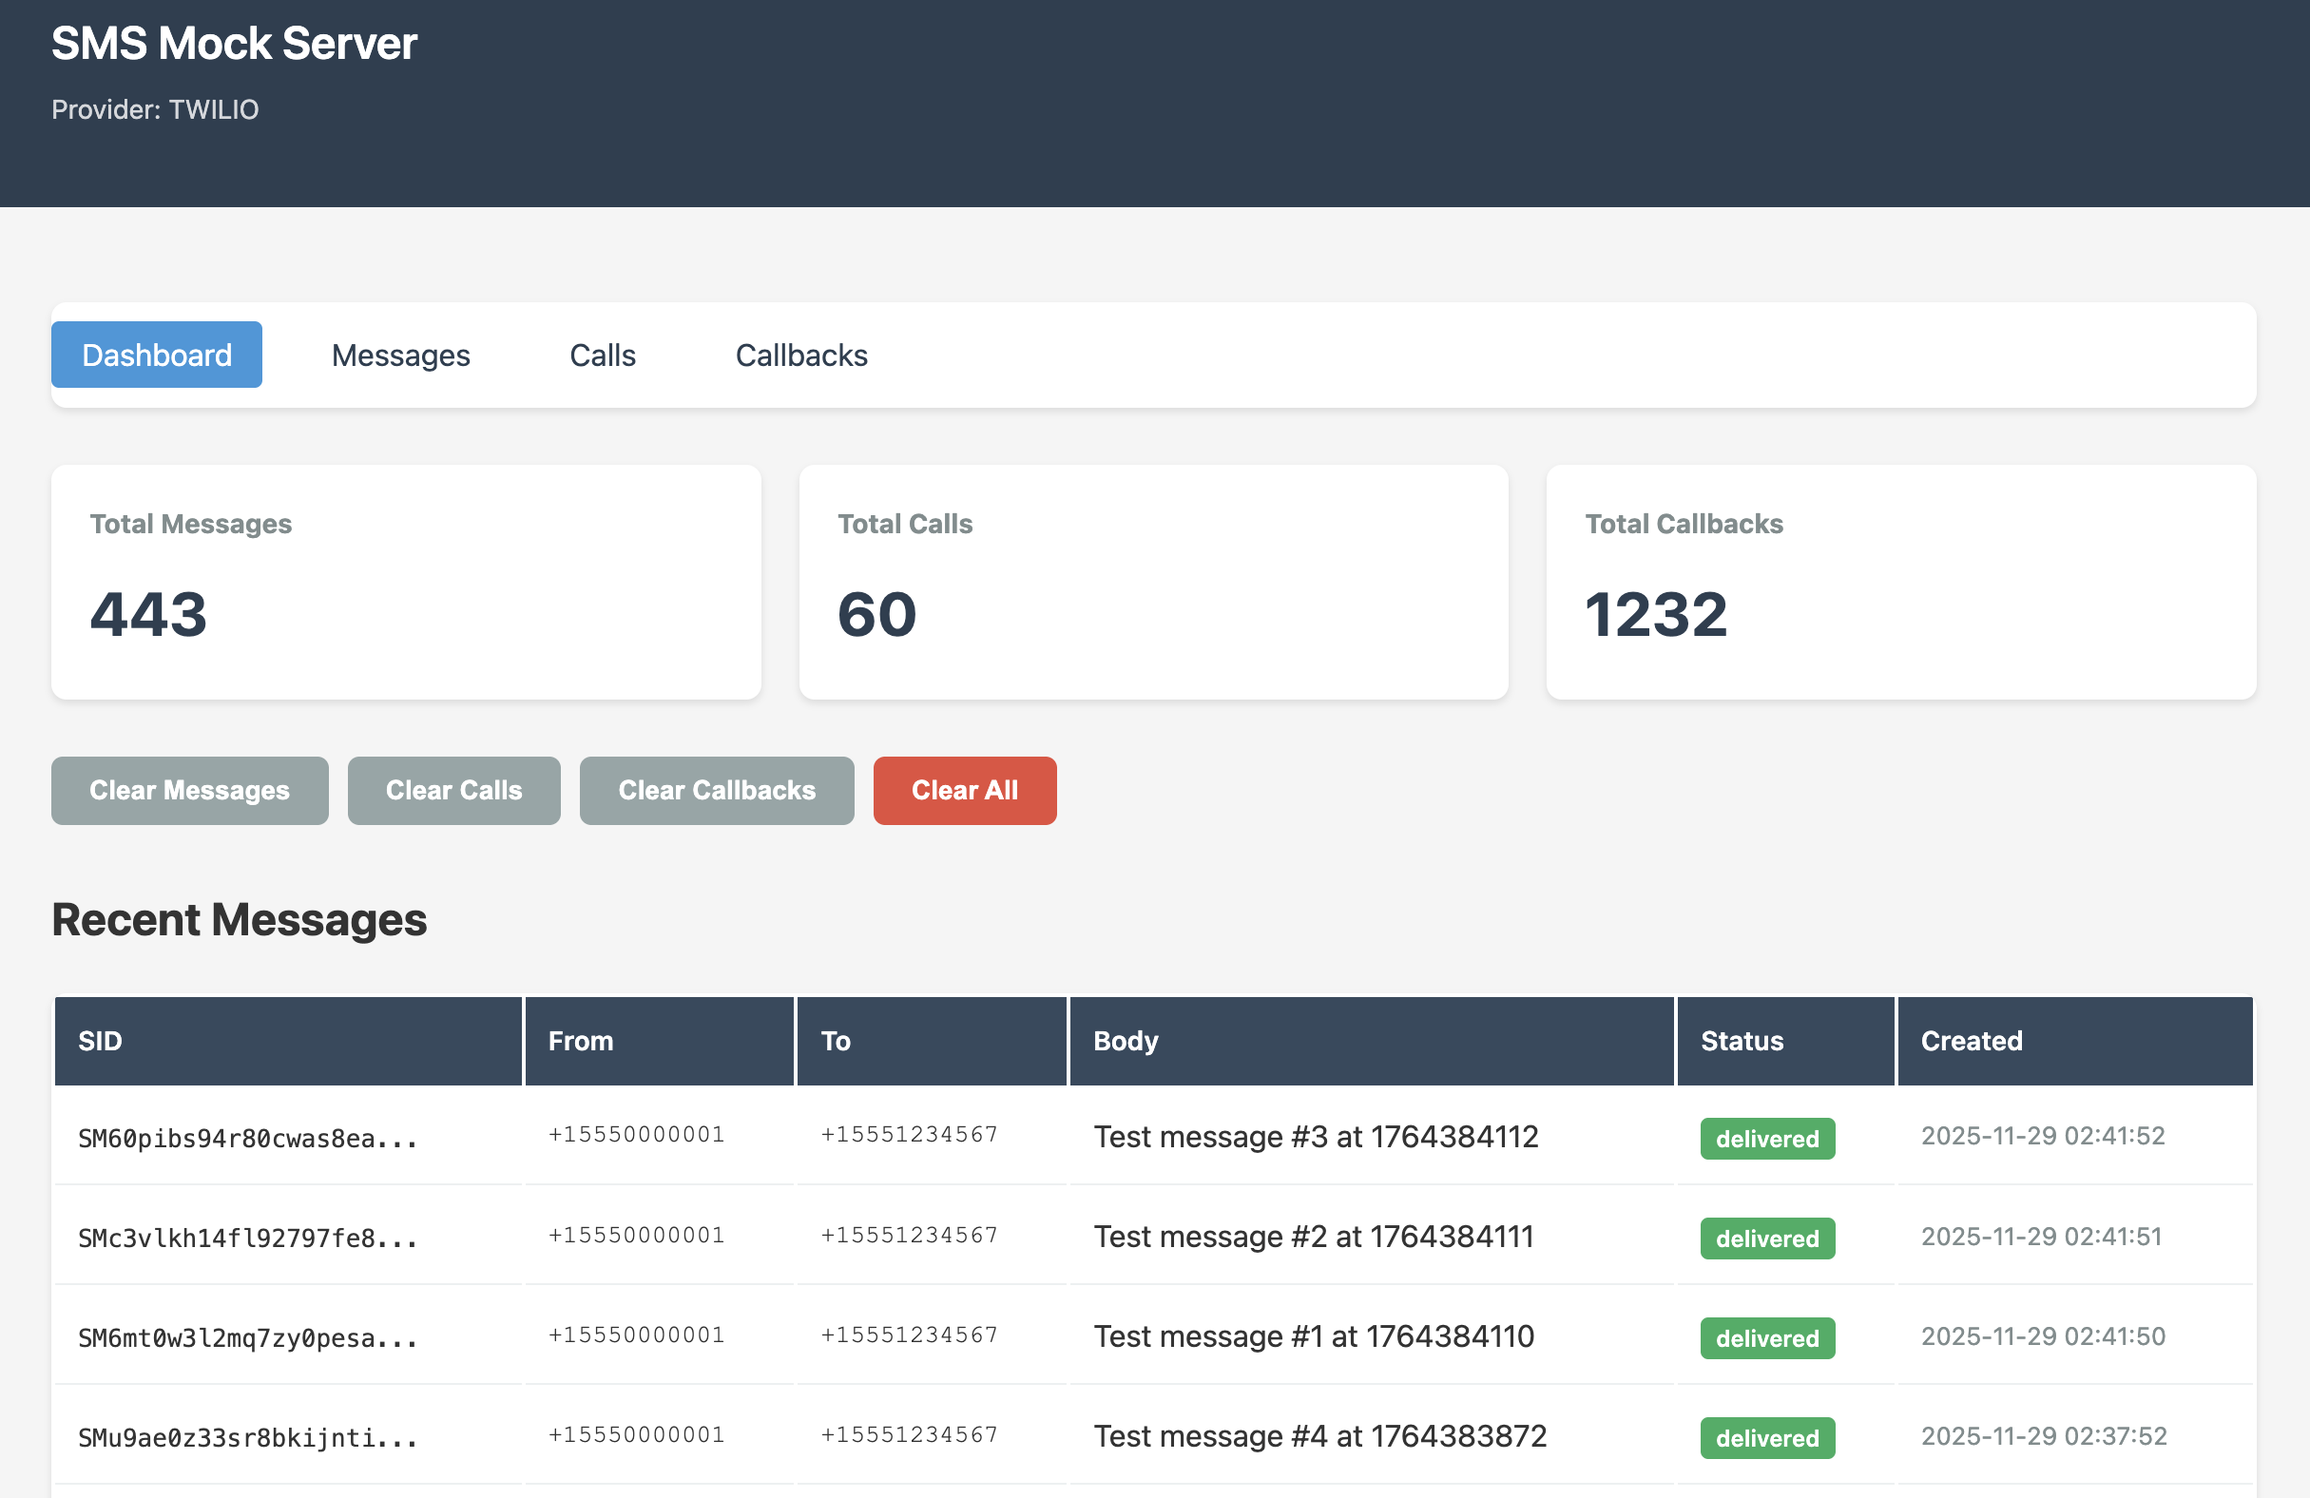
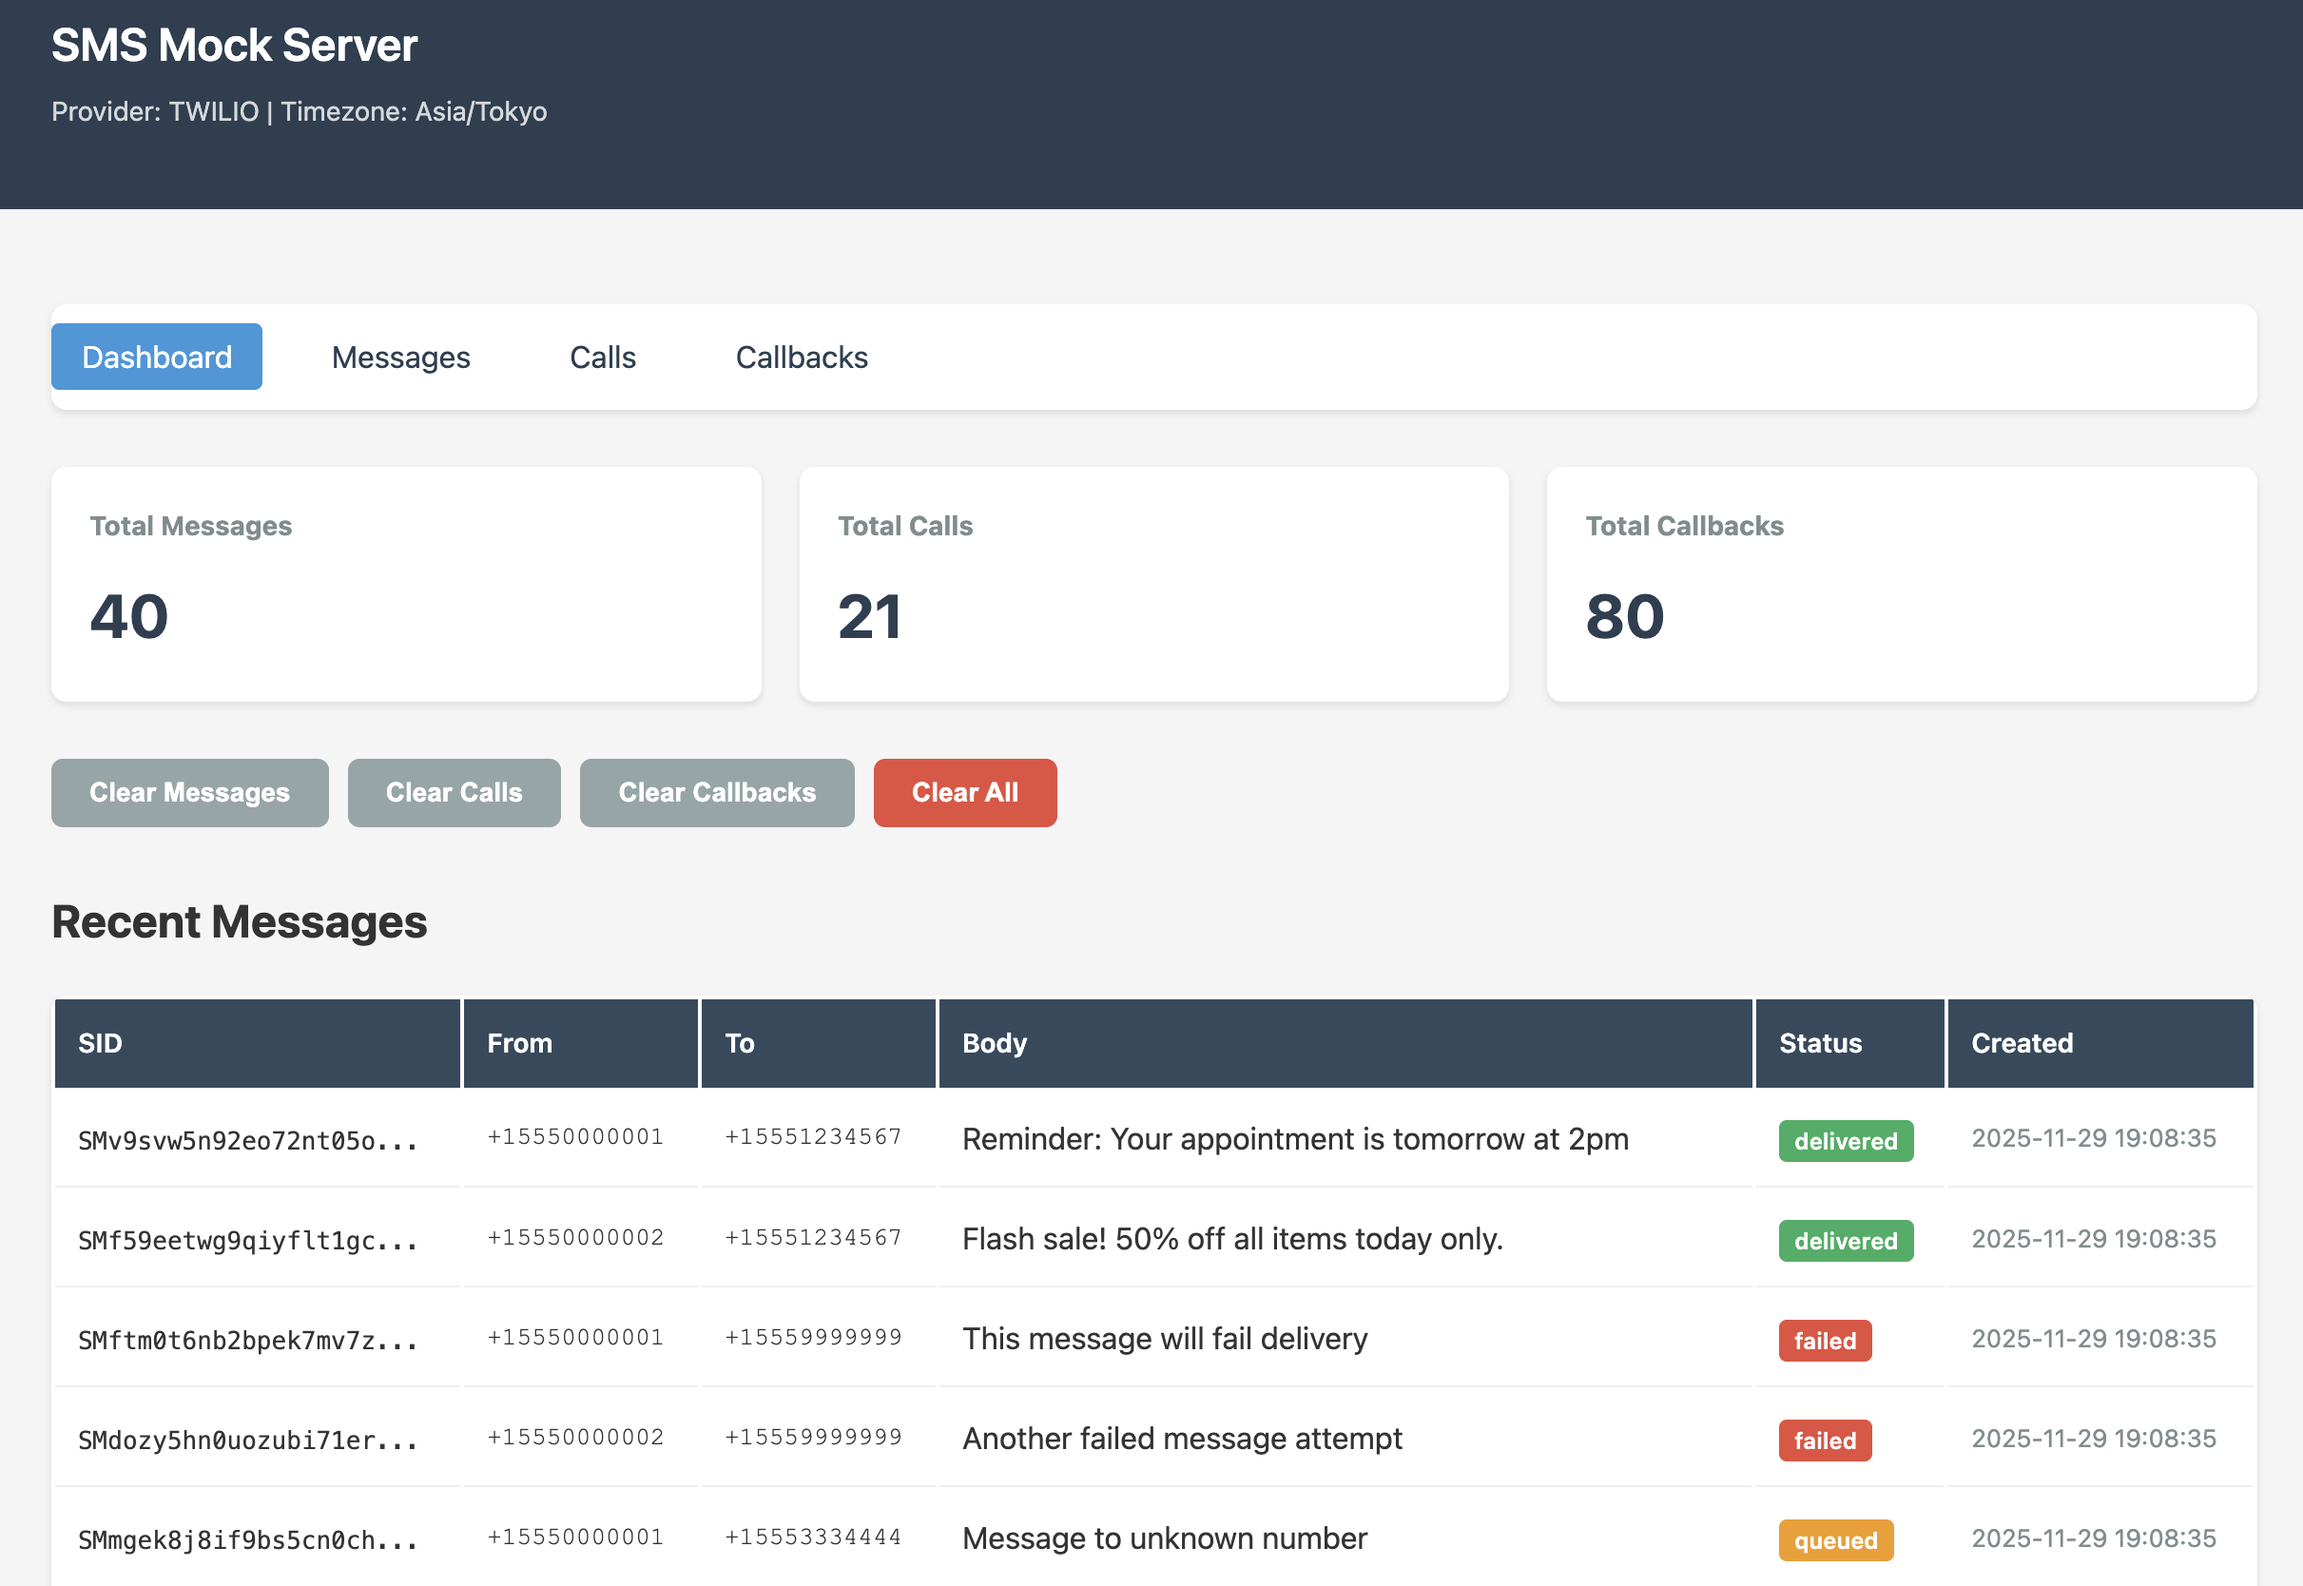
Update README and docs for Makefile, dev setup, and file structure
- Add Makefile commands and local dev instructions to README - Expand
project structure to include tests, scripts, docs, and config files -
Remove deprecated docker-compose syntax and version fields - Move
DESIGN.md to docs/ and update references - Update dashboard screenshot
in docs/

diff --git a/README.md b/README.md
@@ -33,10 +33,9 @@ open http://localhost:8080
 
 ```bash
 # Using the provided docker-compose.yml
-docker-compose up -d
+docker compose up -d
 
 # Or create your own docker-compose.yml:
-version: '3.8'
 services:
   sms-mock-server:
     image: notfoundsam/sms-mock-server:latest
@@ -55,7 +54,7 @@ git clone <repository-url>
 cd sms-mock-server
 
 # Build and run
-docker-compose up -d
+make install
 ```
 
 ### Option 4: Local Python
@@ -297,8 +296,6 @@ When you send an SMS/call with a `StatusCallback` URL, the mock server will:
 ## Docker Compose with Your App
 
 ```yaml
-version: '3.8'
-
 services:
   sms-mock-server:
     build: ./sms-mock-server
@@ -336,12 +333,34 @@ The mock server emulates common Twilio errors:
 
 ## Development
 
+### Makefile Commands
+
+```bash
+make install    # Build and start the application
+make up         # Start the application
+make stop       # Stop the application
+make restart    # Restart the application
+make test       # Run tests
+make lint       # Run Ruff linter
+make lint-fix   # Run Ruff linter with auto-fix
+make seed       # Seed database with sample data
+make clean      # Stop and remove volumes
+make logs       # Show application logs
+make help       # Show all commands
+```
+
+### Local Development (without Docker)
+
 ```bash
 # Install dependencies
 pip install -r requirements.txt
+pip install -r requirements-dev.txt
 
 # Run tests
 pytest
+
+# Run linter
+ruff check app/ tests/
 
 # Run server with auto-reload
 uvicorn app.main:app --reload --port 8080
@@ -365,11 +384,20 @@ sms-mock-server/
 │   ├── responses/twilio/    # JSON response templates
 │   ├── errors/twilio/       # JSON error templates
 │   └── ui/                  # HTML templates
-├── data/                    # SQLite database
+├── tests/                   # Test suite
+├── scripts/
+│   └── seed_data.sh         # Sample data seeder
+├── docs/
+│   ├── DESIGN.md            # Architecture documentation
+│   └── dashboard.png        # UI screenshot
 ├── config.yaml              # Server configuration
+├── Makefile                 # Build automation
 ├── Dockerfile
 ├── docker-compose.yml
-└── requirements.txt
+├── requirements.txt
+├── requirements-dev.txt     # Dev dependencies (pytest, ruff)
+├── ruff.toml                # Linter configuration
+└── pytest.ini               # Test configuration
 ```
 
 ## Troubleshooting
@@ -391,7 +419,7 @@ sms-mock-server/
 
 ## License
 
-MIT License - See DESIGN.md for architecture details
+MIT License - See [docs/DESIGN.md](docs/DESIGN.md) for architecture details
 
 ## Contributing
 

diff --git a/docs/DESIGN.md b/docs/DESIGN.md
@@ -473,9 +473,16 @@ validation:
 │           ├── message_detail.html    # Modal content
 │           ├── call_detail.html       # Modal content
 │           └── pagination.html        # Reusable pagination controls
-└── data/
-    └── mock_server.db
+├── scripts/
+│   └── seed_data.sh                   # Sample data seeder
+├── tests/                             # Test suite
+├── docs/                              # Documentation
+├── Makefile                           # Build automation
+├── ruff.toml                          # Linter configuration
+└── pytest.ini                         # Test configuration
 ```
+
+Note: SQLite database is stored in a Docker volume (`sms-mock-data`) for persistence.
 
 ### 5.2 Response Template Example
 **File**: `templates/responses/twilio/send_sms_success.json`
@@ -851,8 +858,6 @@ When running the mock server in Docker and your application in another container
 
 **Docker Compose Example:**
 ```yaml
-version: '3.8'
-
 services:
   sms-mock-server:
     build: .
@@ -941,7 +946,6 @@ TWILIO_API_BASE_URL=http://localhost:8080
 
 **Basic Setup:**
 ```yaml
-version: '3.8'
 services:
   sms-mock-server:
     build: .
@@ -958,8 +962,6 @@ services:
 
 **With Application Stack:**
 ```yaml
-version: '3.8'
-
 services:
   sms-mock-server:
     build: ./sms-mock-server
